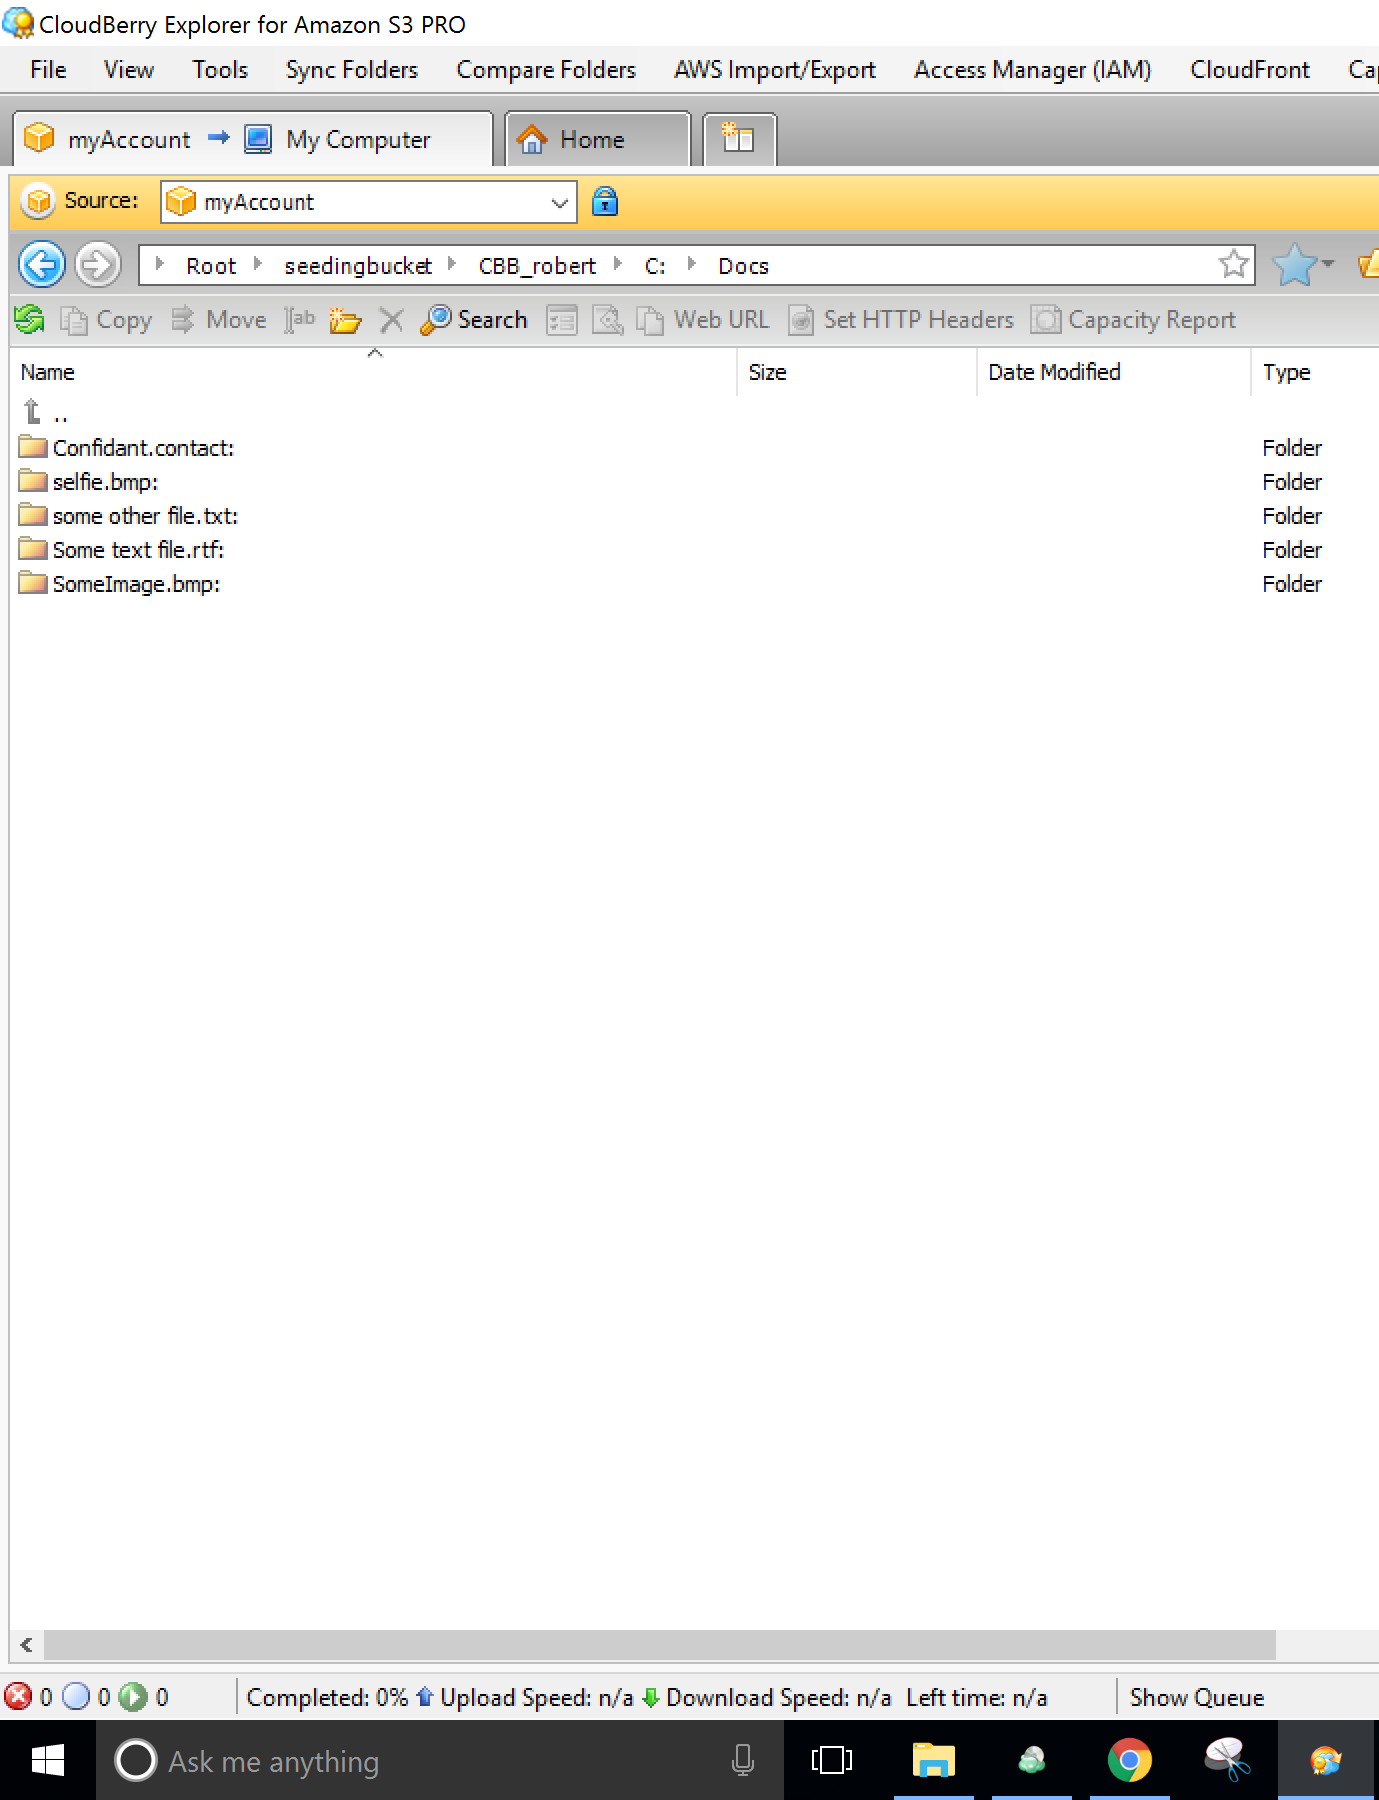
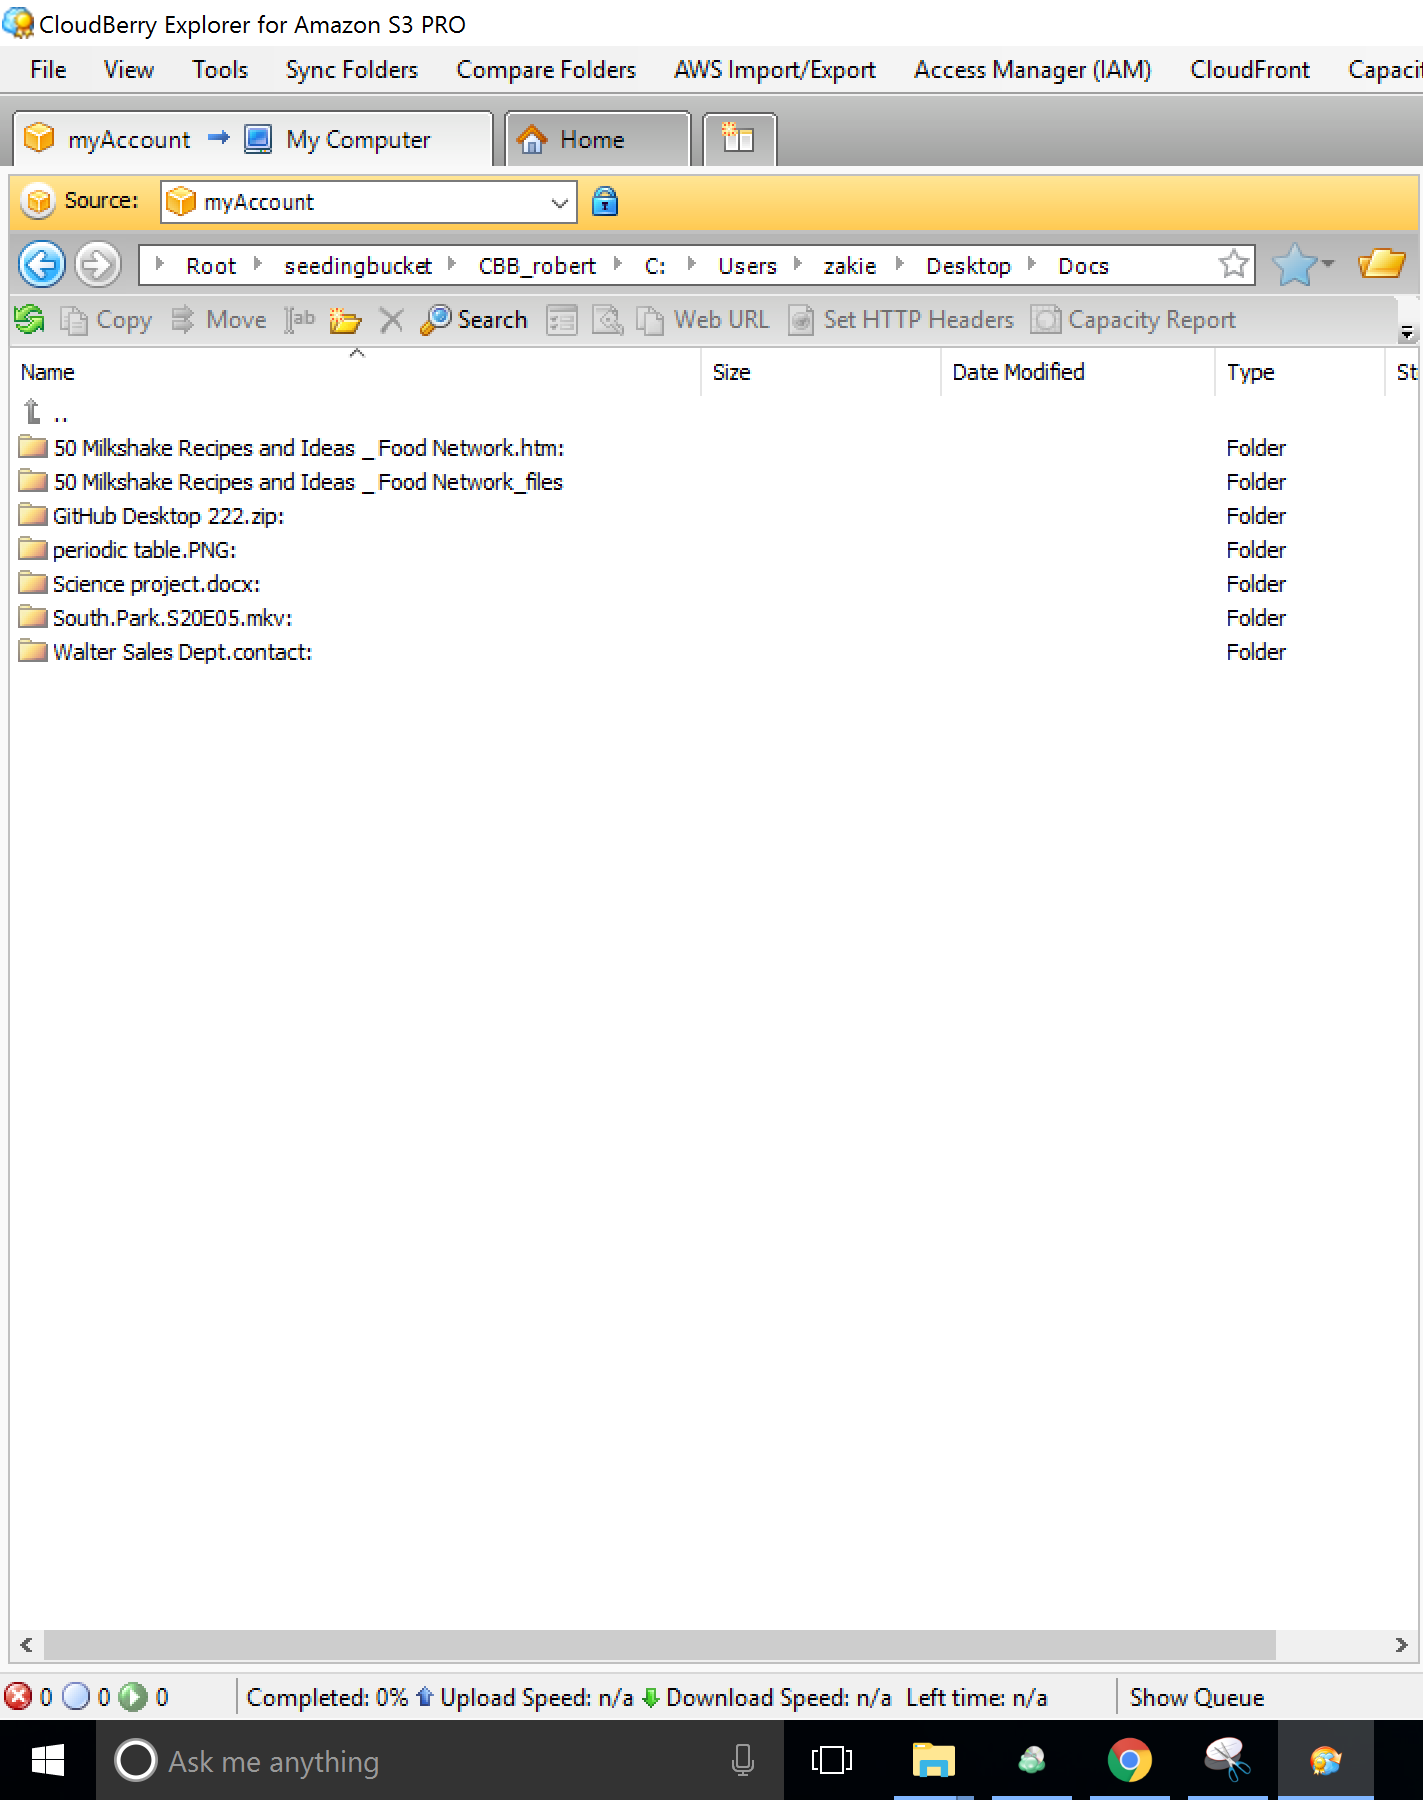
kb1052
almost there

Changed region(s): [[0.0, 0.0, 1.0, 0.3733], [0.0, 0.9022, 0.9978, 1.0], [0.8419, 0.2489, 0.9666, 0.3733]]

diff --git a/_posts/2016-10-20-kb1052.md b/_posts/2016-10-20-kb1052.md
@@ -49,7 +49,7 @@ Now open CloudBerry Backup on the “fast PC” and enter your Amazon credential
 6. Now continue setting up the plan. Upon finishing, run the plan once, and your data should be successfully uploaded into the specified folder in the cloud storage.<br><br>
 <img src="../images/kb1052/1052capture2.png" width="300" height="400">
 
-Notice that we only have 5 files in the “Docs” folder. Now let’s get back to that very folder on the “Slow PC”, add a file to it and do the same process again. As you see on the screenshot below, a file named “BRAND NEW FILE” was added.
+Notice that we only have 7 files in the “Docs” folder. Now let’s get back to that very folder on the “Slow PC”, add a file to it and do the same process again. As you see on the screenshot below, a file named “BRAND NEW FILE” was added.
 
 <img src="../images/kb1052/1052capture3.png" width="500" height="300">
 
